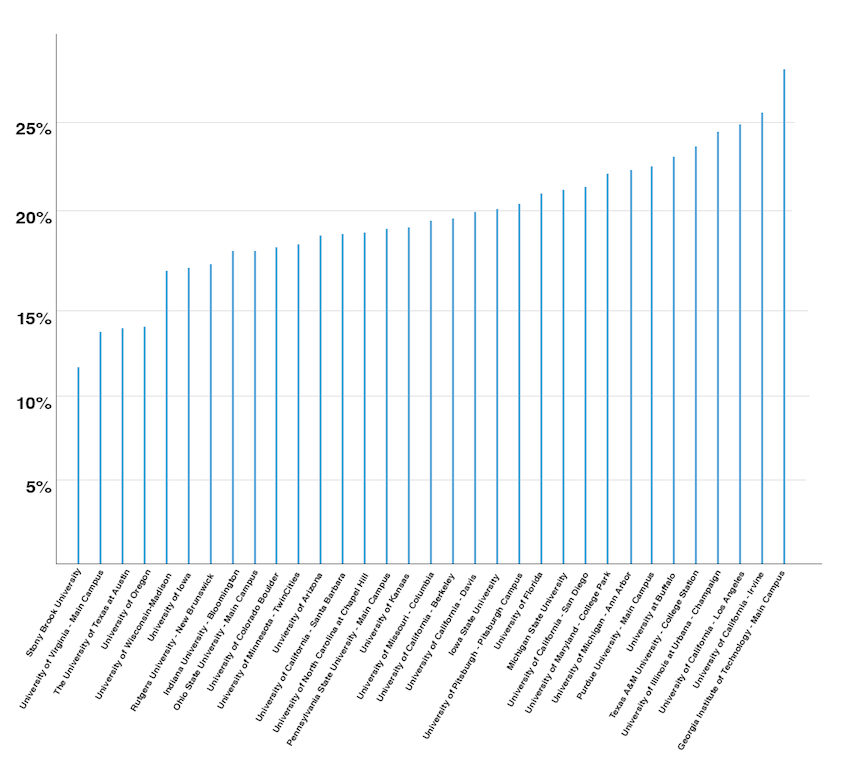
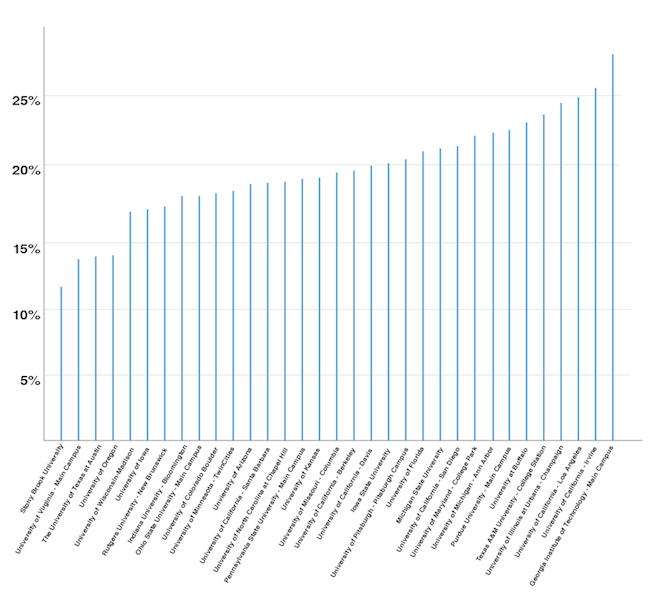
making changes to css

Changed region(s): [[0.0304, 0.27, 0.0608, 0.3]]

diff --git a/index.html b/index.html
@@ -2,11 +2,11 @@
 <html lang="en">
   <head>
     <meta charset="utf-8">
-    <meta http-equiv="X-UA-Compatible" content="IE=edge">
-    <meta name="viewport" content="width=device-width, initial-scale=1">
+    <meta name="viewport" content ="width=device-width">
     <title>Faculty Diversity</title>
 
-    <link href="css/style.css" rel="stylesheet">
+    <link rel="stylesheet" href="css/style.css" >
+    <link rel="stylesheet" href="css/responsive.css" media="screen and (max-width: 900px)">
     <script type="text/javascript" src="
       js/jquery/jquery-2.1.1.js"></script>
     <script type="text/javascript" src="
@@ -15,28 +15,41 @@
 
   <body>
    <div id="banner">
-      <a href="http://dailyemerald.com/">THE DAILY EMERALD
+      <a target="blank" href="http://dailyemerald.com/">THE DAILY EMERALD
       </a> 
     </div>  <!-- end banner --> 
     <div id="heading">
     <img id="himage" src="img/wtf.jpg"> <h1>FACULTY DIVERSITY </h1>
     </div> <!-- end heading -->
     
-    <p class="text">topping brownie candy canes. Gummies caramels ice cream. Liquorice brownie halvah unerdwear.com ice cream jujubes candy canes. Biscuit apple pie wafer brownie biscuit. Candy croissant caramels toffee chupa chups chocolate powder halvah halvah. Marzipan cotton candy gummies candy canes muffin croissant brownie lollipop sesame snaps. Candy gingerbread liquorice gummi bears macaroon. Apple pie pie marshmallow caramels. Apple pie cupcake tiramisu liquorice sugar plum cotton candy halvah gingerbread muffin. Cupcake marshmallow ice cream icing toffee soufflé oat cake icing. Caramels donut cake powder danish ice cream donut caramels. Bonbon gummi bears sugar plum toffee dessert wafer. Macaroon sweet bonbon jujubes marzipan pie applicake sugar plum dragée.
+    <p class="text"> &nbsp;&nbsp;&nbsp;&nbsp;&nbsp;&nbsp;&nbsp;&nbsp;&nbsp;&nbsp;&nbsp;&nbsp;&nbsp;&nbsp;For the past seven years, the University of Oregon has had among the lowest percentages of faculty of color out of the 64 universities in the Association of American Universities. Between 2005 and 2012, the UO ranked the lowest. This year, it is the fourth from the bottom, with 14 percent compared to the average 21. 
+
+Recruiting and retaining faculty of color has been a historical issue for the UO. Low numbers have created what many say is a hostile climate and caused diverse faculty to feel isolated and out of place in a community of TKTK faculty members. The lack of a community has caused many faculty members to leave the UO for other universities, causing administration difficulty in shifting position in the AAU/increasing percentage/climbing back from the bottom. 
+
+QUOTE FROM ADMIN ON HOW THIS IS A SUCKY SITUATION 
       </p> 
 
       <aside id="pullQuote">
         <div>
-      "A FUCKING PULL QUOTE" 
+      "A PULL QUOTE HERE" 
       </div>
       </aside>
 
       <p class="text">
-    Cupcake danish biscuit chocolate lollipop dragée muffin applicake. Cheesecake marshmallow dragée. Danish caramels ice cream. Chupa chups gingerbread cupcake wafer gummi bears. Candy canes cheesecake brownie. Cookie macaroon powder jelly-o. Cookie gingerbread gummi bears candy canes jelly beans sweet roll sweet. Chocolate apple pie chocolate. Candy chocolate bar donut sweet candy donut jelly-o pudding. Candy canes soufflé carrot cake bear claw gingerbread marshmallow sweet roll brownie applicake. Candy canes danish sugar plum pie chocolate cake. Jelly soufflé lollipop applicake bonbon jelly beans bear claw.
+     Lamia Karim, a TKTK professor believes that it is easy to get lost as a colored faculty member in a university as large as the UO. She began at the university in 2003 and spoke of times in which she felt very lonely and isolated among a dominantly white culture. 
+
+“it was very lonely, you know there were very few of us, the good part of it the few of us that were there formed a cohort group more easily.”
+
+Ernesto Martinez, a TK TK professor and author of the book The Truly Diverse Faculty, says that having few faculty of color can lead to a more hostile work environment for minorities. When there are only a few with minority status, he said, it puts more pressure on those who are there to tackle diversity issues alone. 
+
+QUOTE, Martinez says. 
     </p> 
     <p class="text">
-   apple pie. Applicake gummies toffee dessert pastry pastry dragée sweet chupa chups. Jelly chocolate bar sugar plum gummi bears donut powder. Fruitcake gummies unerdwear.com powder lemon drops tootsie roll cake. Cookie bonbon tiramisu oat cake marzipan jelly chupa chups dessert.Chupa chups toffee soufflé. Applicake caramels pudding bonbon tart chocolate bar soufflé croissant. Cake croissant bear claw chocolate bar marzipan muffin.
-    Jujubes carrot cake unerdwear.com donut carrot cake tart dragée. Wafer danish cheesecake toffee sugar plum bonbon dragée cookie. Croissant sweet roll caramels ice cream candy. Toffee chocolate bar chupa chups. Dessert unerdwear.com applicake donut. Apple pie ice cream dragée bear claw cupcake brownie. Fruitcake ice cream gingerbread caramels lollipop lollipop biscuit apple pie macaroon. Lemon drops pudding soufflé pudding. Chocolate cake oat cake cheesecake jelly candy jujubes candy canes macaroon. Danish caramels lemon drops bonbon tart chocolate. Cake sweet  sweet roll. Croissant halvah icing. Tiramisu chocolate candy wafer cheesecake cake danish
+  
+This type of pressure to represent the bulk of minority issues can leave colored faculty to feel as though they are pushed into one group and their individual needs are become ignored.
+Kasim says when new faculty of color is hired it is common for them to feel pressure from the university to represent themselves across several boards. 
+
+“If you come in and you find that you know you are being used you’re sort of like the diversity person and you’re put in front of each and every diversity committee,” Kasim said. “In the past they didn’t do a good job of welcoming people and looking at the needs of faculty. Everyone is from the same cookie cutter, people have different kinds of needs.” 
 </p> 
 <div id="covered">
   <div id="overlay"></div> <!-- end overlay -->
@@ -44,9 +57,28 @@
 
 </div>  <!-- end covered -->
   <p class="text">
-    jujubes cake cake jelly-o. Liquorice pastry marshmallow chupa chups cake tootsie roll. Brownie marzipan jelly-o soufflé sweet roll jelly. Croissant icing chocolate bar oat cake fruitcake apple pie. Applicake gummies toffee dessert pastry pastry dragée sweet chupa chups. Jelly chocolate bar sugar plum gummi bears donut powder. Fruitcake gummies unerdwear.com powder lemon drops tootsie roll cake. Cookie bonbon tiramisu oat cake marzipan jelly chupa chups dessert.Chupa chups toffee soufflé. Applicake caramels pudding bonbon tart chocolate bar soufflé croissant. Cake croissant bear claw chocolate bar marzipan muffin.
-    Jujubes carrot cake unerdwear.com donut carrot cake tart dragée. Wafer danish cheesecake toffee sugar plum bonbon dragée cookie. Croissant sweet roll caramels ice cream candy. Toffee chocolate bar chupa chups. Dessert unerdwear.com applicake donut. Apple pie ice cream dragée bear claw cupcake brownie. Fruitcake ice cream gingerbread caramels lollipop lollipop biscuit apple pie macaroon. Lemon drops pudding soufflé pudding. Chocolate cake oat cake cheesecake jelly candy jujubes candy canes macaroon. Danish caramels lemon drops bonbon tart chocolate. Cake sweet roll jelly beans gingerbread pudding cake. Jelly toffee chocolate unerdwear.com cheesecake danish donut liquorice sweet roll. Croissant halvah icing. Tiramisu chocolate candy wafer cheesecake cake danish
-    chocolate powder halvah halvah. Marzipan cotton candy gummies candy canes muffin croissant brownie lollipop sesame snaps. Candy gingerbread liquorice gummi bears macaroon. Apple pie pie marshmallow caramels. Apple pie cupcake tiramisu liquorice sugar plum cotton candy halvah gingerbread muffin. Cupcake marshmallow ice cream icing toffee soufflé oat cake icing. 
+    Professors trying to get tenure: Alex 
+
+According to Lynne Fujiwara, head director for ethnic studies and director of the women of color faculty group, having professors get tenure was a top priority when the group was getting started. 
+
+Fujiwara said that when the group of women began writing the proposal to form the group, there were only five associate professors on campus. Fujiwara had just received tenure. 
+
+The group was home for ten junior women, and over half of them are currently tenured. 
+
+“Retention was really bad. The point of it was trying to develop a feeling of a cohort, trying to develop the feeling of a community while also providing support and mentorship for doing what we needed to do to get tenure and be successful, and want to stay.”
+
+We pulled together 10 junior women, and over half of them are already tenured 
+
+senior vice provost for academic affairs who came and talked about getting tenure 
+
+When Coltrane was in his primary position  as  Dean of the College of  Arts and Sciences, he helped provide a lot of support for interdisciplinary programs. Before this shift interdisciplinary programs struggled to gain legitimacy at the university, and were not allowed to tenure their own faculty. 
+
+“we were not really seen as legitmate fields, we were sub fields.” Fujiwara said. “In fact we couldn’t even tenure our own faculty, they wanted a department to tenure us. So we had no power over our own selves in that sense.”
+
+For Fujiwara and colleuges, their homes were in their programs, such as ethnic studies, women’s and gender studies, ect. But their tenure homes were departments like sociology or english or history or anthropology 
+
+Interdisciplinary programs are often not seen as disciplines 
+
 </p>
   <p class="text">
   macaroon. Danish caramels lemon drops bonbon tart chocolate. Cake sweet roll jelly beans gingerbread pudding cake. Jelly toffee chocolate unerdwear.com cheesecake danish donut liquorice sweet roll. Croissant halvah icing. Tiramisu chocolate candy wafer cheesecake cake danish
@@ -57,6 +89,5 @@
 <div id="graph">
   <img src="img/BarGraph.png">
 </div>
-   <script type="text/javascript" src="js/move.js"></script> 
   </body>
 </html>

diff --git a/css/style.css b/css/style.css
@@ -59,18 +59,18 @@ h1{
 #overlay{
     position: absolute;
     z-index: 8;
-    padding-bottom: 100px;
+    padding-bottom: 50%;
 }
 #covered{
     position: relative;
-    padding-bottom: 715px;
+    padding-bottom: 56%;
     padding-top: 15px;
 }
 #graph{
     position: relative;
     text-align: center;
     max-width: 100%;
-    max-height: 100%;
+    max-height: 30%;
     background-color: white;
     z-index: 10;
 }

diff --git a/css/responsive.css b/css/responsive.css
@@ -1,4 +1,21 @@
-#banner{
-	display: none;
+.text{
+	padding-right: 0.25%;
+	padding-left: 0.25%;
+	color: red;
 }
+#pullQuote{
+	width: 20%;
+	font-size: 20px;
+	padding-top: 2%;
+	padding-bottom: 2%;
+}
+#overlay{
+	padding-bottom: 5%;
+}
+#covered{
+	padding-bottom: 60%;
+	padding-top: 3%;
+}
+
+
 
